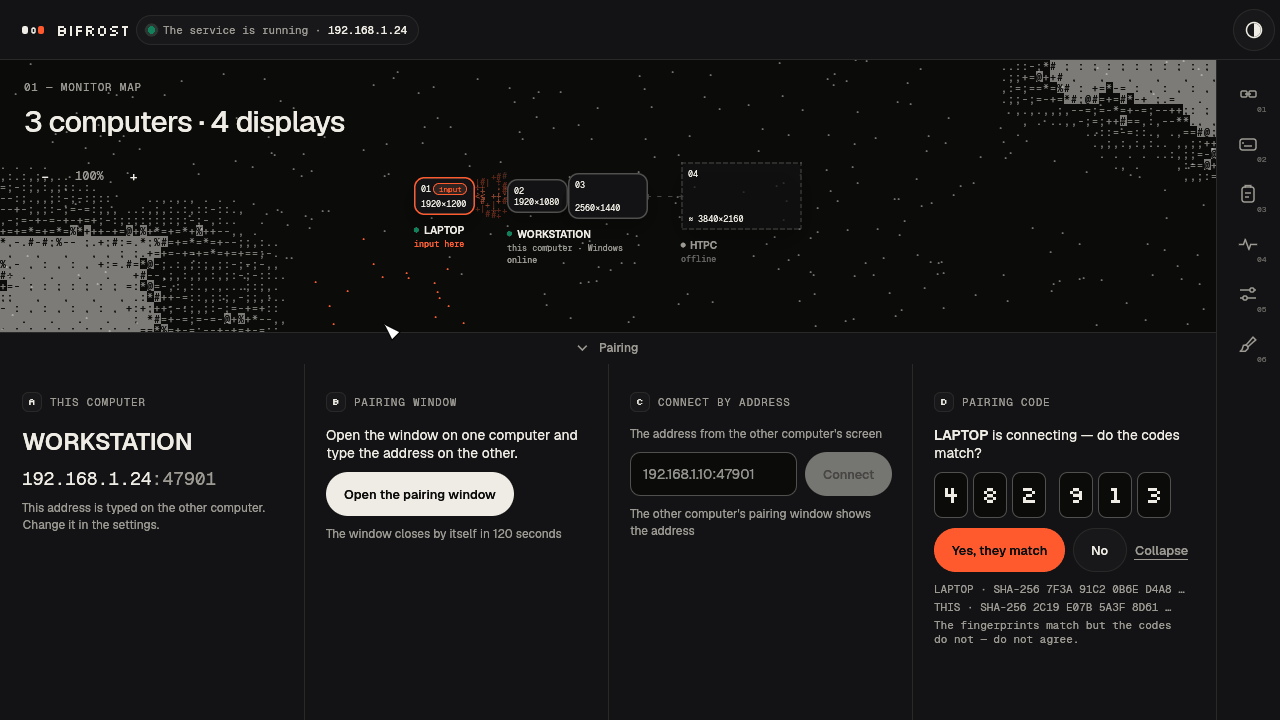
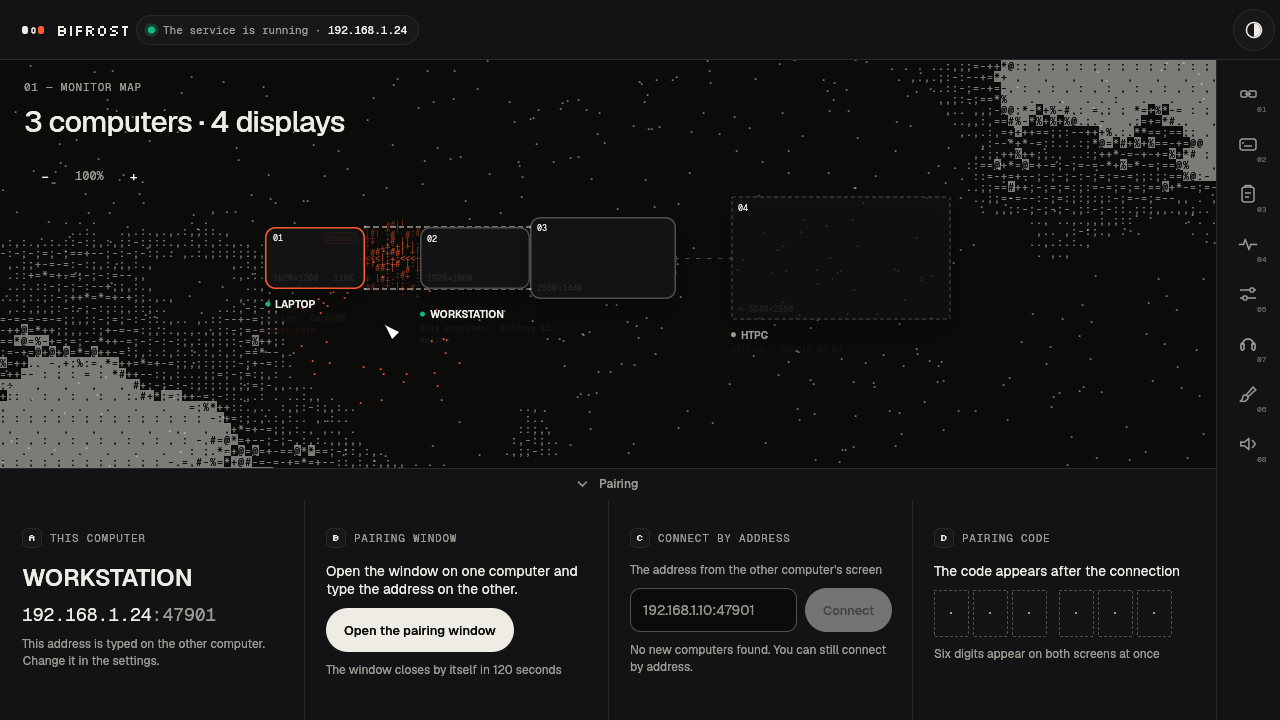
docs(readme): publish Bifrost 0.5 product page and screenshots

diff --git a/README.md b/README.md
@@ -1,46 +1,138 @@
 # Bifrost
 
-**A rainbow bridge between your computers.**
+**One keyboard and mouse for your Windows and Linux computers, a shared clipboard, and optional system audio in one headset.**
 
-Bifrost is a software KVM: share one keyboard, mouse and text clipboard—and, optionally, system audio—across Windows and Linux computers on your LAN. Control connections use mutual TLS, and you pair computers by comparing a six-digit code on both screens. This is my personal project and an early release—not a polished replacement for every hardware KVM.
+Keep your computers separate. Move between their screens over your LAN without changing the keyboard under your hands.
 
-![Bifrost in dark mode](assets/readme/main-dark.png)
-![Bifrost in light mode](assets/readme/main-light.png)
+**[Download Bifrost 0.5.0](https://github.com/ynnmuraii/bifrost/releases/latest)** · [Get started](#get-started) · [Platform support](#platform-support) · [Русская инструкция](packaging/README_RU.txt)
 
-*Screenshots rendered from the actual UI with example computers; no personal network data.*
+<picture>
+  <source media="(prefers-color-scheme: dark)" srcset="assets/readme/main-dark.png">
+  <source media="(prefers-color-scheme: light)" srcset="assets/readme/main-light.png">
+  <img alt="Bifrost monitor map with example WORKSTATION, LAPTOP and HTPC computers and linked display edges" src="assets/readme/main-light.png">
+</picture>
 
-## What it does
+*The actual Bifrost 0.5.0 interface, rendered offscreen with example computers. The map illustrates a setup, not a live network.*
 
-- Mutual TLS, pairing requests accepted before six-digit confirmation on both computers, and synchronized unpairing.
-- LAN discovery with dotted, gently animated cards for unpaired computers (**Connect / Hide**), plus rediscovery of trusted computers after address changes; manual addresses remain available.
-- Live RTT p95 and jitter on the status screen, with latency pills on the monitor map.
-- A freely arranged monitor map, edge links across gaps and an animated ASCII bridge.
-- Edge glow to show where input is going.
-- Shared **text** clipboard with history, follow-cursor/broadcast policies and **Send to…**; separately opt-in **PNG images on Windows, X11 and KDE Wayland (data-control)** (images are never kept in history; no files).
-- Optional **shared audio**: one headset on a Listener, with system sound from authorized Sources; mix all sources or follow input focus.
-- A popup audio mini-player with now-playing information, local per-source volume/mute and separately permitted media buttons; optional system-wide mute/PTT control of the Listener's physical microphone.
-- Game mode guards against accidental edge switches in fullscreen apps; manual mode is available on Wayland.
-- Configurable switching hotkeys and an emergency release shortcut.
-- Russian and English, light and dark themes.
-- System tray and a per-user **Start at login** toggle in Settings.
-- One executable for the window, core, input agent and optional isolated audio worker—no separate service to install.
-- Version badges on the map and coordinated updates of trusted computers, with the requesting computer updated last.
+## Make room on your desk
 
-The input lease defaults to `timing.lease_ttl_ms = 1000` (allowed range 300–1000 ms). Challenges run every `min(TTL/5, 100 ms)`, or 100 ms by default. This fixed budget accommodates a 500 ms TCP stall when renewals resume in time; it cannot guarantee survival through unlimited loss. There is no grace period or adaptive extension: core and agent deadlines stay anchored to challenge issuance plus TTL. The control-return bound is TTL + 100 ms scheduling allowance (1100 ms by default); repeat guard (150 ms) and agent core-silence timeout (300 ms) are unchanged.
+- **Desktop and laptop, one set of controls.** Arrange their displays on the map, link the edges, and move across with your mouse. Use a switching hotkey when you prefer.
+- **Copy here, paste there.** Opt into text clipboard sharing that follows the computer you use, or send a history item to a chosen trusted computer. PNG images have a separate opt-in on supported desktops; files are not transferred.
+- **Keep the headset plugged in.** Opt into system audio from up to three authorized computers on one Listener. Mix them together or let input focus decide which is louder.
 
-### Input reliability in 0.4.0
+Bifrost is a personal project and an early release, not a replacement for every hardware KVM. Windows 11 and Linux X11 are supported; Wayland depends on your desktop and its portals. There is no macOS support or microphone streaming.
 
-The newest absolute pointer position is kept outside the bounded input queue, rather than dropping it when that queue is full. A button, key or wheel event freezes the preceding position first; discrete events and lease boundaries keep their order. Pending motion is cleared at lease end and cannot carry into another lease.
+The app has English and Russian interfaces, light and dark themes, a system tray and optional start at login. One executable includes the window, core, input agent and isolated audio worker; no separate service to install.
 
-Reading and coordination run independently of the single TLS writer. Lease/control messages and Pong have bounded frame-level priority. A **pending frame**, not an idle healthy connection, closes the link after 600 ms without write progress or 1000 ms total; a partially written frame is never reused. Shutdown shares a 100 ms budget. These limits do not extend the lease or change its control-return bound.
+## Get started
 
-The receiving core admits at most 64 native input batches and keeps at most 64 more in a local FIFO, advancing on exact local completions matched by lease and sequence. It no longer evicts an outstanding offer and mistakes a successful burst for a partial injection. Lease/deadline controls remain independent of this input backlog; input does not wait for network `InjectAck` credit.
+1. [Install Bifrost](#download--install) on both computers and open it on the same trusted LAN.
+2. Select a discovered computer and choose **Connect**. **Accept** the request on the other screen, then compare the six-digit codes and confirm on **both** computers only if they match.
+3. Arrange the screens on the map and connect their edges. Take control from the computer whose keyboard you want to use, then move across a linked edge.
+4. Test **Emergency release** before relying on remote input. Enable clipboard sharing if you want it; system audio remains off until you set it up separately.
 
-Bounded diagnostics report p50/p95/p99, durations and counters for capture-receipt age, queue waiting, TLS writes, inbound dispatch, local injection and send-to-`InjectAck` round trips—never input coordinates, keys or content. The source's monotonic capture-receipt timestamp is not a hardware HID timestamp; no clocks are synchronized across computers. The RTT shown in the UI remains Ping RTT, not input latency.
+<details>
+<summary>How pairing works</summary>
 
-Input still shares one reliable TLS/TCP stream: packet loss can cause retransmission and head-of-line stalls. The controlled [two-core Docker benchmark](apps/bifrost/tests/bench_b/README.md) checks delivery, ordering and release safety; its variable loss tails are **not a claim of reduced Wi-Fi p99**.
+```mermaid
+flowchart TD
+    A["Open Bifrost on both computers"] --> B["Connect, then accept the request"]
+    B --> C{"Six-digit codes match?"}
+    C -->|"No"| D["Cancel pairing"]
+    C -->|"Yes: confirm on both"| E["Arrange screens and link edges"]
+    E --> F["Take control and cross a linked edge"]
+    F --> G["Control the other computer"]
+    G --> H["Return here or use Emergency release"]
+```
 
-**Game mode** (Settings) blocks only edge switching: `auto` detects fullscreen apps on Windows/X11 and cursor confinement on Windows; `always` requires an explicit switch, and `off` disables the guard. Per-app allow/block lists match executable basenames or X11 WM_CLASS, case-insensitively; allow takes precedence in auto. **Ctrl+Alt+Shift+G** toggles auto/always (configurable under hotkeys), and the tray offers the same toggle. Explicit switches and emergency release always work, including while input is already remote. Wayland cannot expose foreground apps: use manual mode there. `[game_guard]` defaults to `mode = "auto"`, `block_apps = []`, `allow_apps = []`.
+</details>
+
+If discovery is empty, enter the address manually; this cannot bypass firewall or network isolation. Keep a local keyboard available, especially while setting up Wayland permissions.
+
+## Download & install
+
+**[Get the 0.5.0 release](https://github.com/ynnmuraii/bifrost/releases/latest)** for both computers. Choose the same version on each.
+
+- **Windows 11 · x86_64:** download `bifrost-0.5.0-windows-x86_64.exe`, keep it in a permanent folder, and run it. No administrator account or installer is needed. The executable is not Authenticode-signed; check the download before bypassing SmartScreen.
+- **Linux · x86_64:** extract `bifrost-0.5.0-linux-x86_64.tar.gz`, run `./install.sh` without `sudo`, then open Bifrost from the applications menu. The release requires glibc 2.35 or newer.
+
+On a firewall prompt, allow **private networks only**. Bifrost does not add firewall rules. [Installation, firewall and upgrade details](#technical-details) include ports, signed-checksum verification and older-version migration.
+
+## Shared audio
+
+Use the headset already connected to your **Listener** to hear your other computers. On the Listener, enable receiving; on each **Source**, select that trusted Listener and enable sharing. Pairing alone never grants audio permission.
+
+![Bifrost Audio settings with a trusted laptop selected as the destination and system audio sharing still off](assets/readme/audio-settings-dark.png)
+
+<details>
+<summary>See the audio mini-player</summary>
+
+<img alt="Bifrost audio mini-player with now-playing information, timeline and volume controls" src="assets/readme/audio-player-dark.png" width="360">
+
+</details>
+
+*Audio views rendered from the actual 0.5.0 interface with example computers, invented media metadata and synthetic cover art; no live audio session.*
+
+```mermaid
+flowchart TD
+    S["Up to 3 Sources<br/>Windows / Linux"]
+    S -->|"Both sides consent<br/>Encrypted LAN audio"| L["Listener<br/>Mix All / Follow Focus"]
+    L --> H["One headset"]
+```
+
+Audio is off by default. Media buttons and physical microphone mute/PTT each need separate permission; **microphone audio is never streamed**. Device buffers, Wi-Fi and Bluetooth can add delay. Use headphones: there is no acoustic echo cancellation.
+
+## Trust comes first
+
+Pair by comparing the six-digit code on **both screens**. Control connections use pinned mutual TLS; a discovery card is not proof of identity or permission to connect.
+
+Clipboard and audio sharing are opt-in. Text clipboard items are capped at 1 MiB; PNG images need a second opt-in, default to a 16 MiB limit (up to 32 MiB), and never enter history. Pairing does not grant audio, media-control or microphone-control permission.
+
+Use a trusted LAN. Discovery announces computer names and connection metadata to that LAN without encryption; it never advertises pairing codes, keystrokes or clipboard content. You can disable discovery or use manual addresses.
+
+Closing the window does not stop the core or an active session. Use the app's explicit controls to return input or stop sharing.
+
+## Platform support
+
+| Platform | Input sharing | Shared audio |
+| --- | --- | --- |
+| Windows 11 | Capture and receive input | WASAPI system audio; process-tree exclusion and native media/mic/PTT controls where available |
+| Linux X11 | Capture and receive input | Pulse-compatible monitor audio/MPRIS; focused GUI PTT, not native global X11 PTT |
+| KDE Plasma ≥6.1 · Wayland | Through desktop portals; permissions required | Pulse-compatible audio/MPRIS; current zero portal timestamps cannot prove native PTT freshness; GUI hold-to-talk remains available |
+| GNOME ≥45 · Wayland | Portal capabilities vary; GNOME 46 can receive but cannot capture input for another computer | Pulse-compatible audio/MPRIS; native PTT requires a present portal with verifiable fresh timestamps, not GNOME 46 |
+| wlroots-based Wayland desktops | Not supported | Not a supported Bifrost desktop |
+| macOS | Not supported | Not supported |
+
+
+## Before you rely on it
+
+- Keep a local keyboard available and test Emergency release. On Wayland, check the shortcut status in **Keys**: a running app does not mean the portal supports that shortcut.
+- GNOME Wayland cannot share PNG clipboard images; GNOME 46 can receive input but cannot capture it for another computer. wlroots desktops and macOS are unsupported.
+- This is not a hard-realtime audio link. Linux monitor capture cannot exclude individual apps; microphone mute affects every app using that physical microphone.
+
+## Technical details
+
+<details>
+<summary>Platform limitations and emergency-key precautions</summary>
+
+## Known limitations
+
+- Early software: keep access to a local keyboard and test emergency release before relying on remote input.
+- The Windows executable has no Authenticode signature and may trigger SmartScreen; release checksums have a separate Ed25519 signature. Linux desktops may need explicit portal approval.
+- Wayland shows a desktop-portal permission dialog on first use. Support depends on your compositor and portal backend.
+- The emergency hotkey on Wayland depends on the **GlobalShortcuts portal**. On KDE, launch Bifrost from its desktop entry or an `app-bifrost@….service` unit so the portal can identify it. GNOME 46 has no GlobalShortcuts portal. Check the emergency-hotkey status in **Keys**; do not assume the shortcut works just because the app is running.
+- Clipboard sharing is off by default; PNG images require a second opt-in. Windows, X11 and KDE Wayland (data-control) support images; GNOME Wayland does not.
+- Shared audio is off by default and requires explicit permissions on both computers; pairing does not grant audio consent. A Source selects one Listener.
+- Linux monitor capture cannot exclude individual applications. Native portal PTT fails closed on unverifiable clocks or conservative event age over 250 ms, including delayed first events; use GUI hold-to-talk. Microphone streaming, virtual-microphone routing and dependent target UX are deferred; native global X11 PTT is unsupported.
+- Endpoint mute affects every app using that microphone. Linux mute restoration has best-effort ownership, not an atomic guarantee against other mute writers; native portal PTT additionally requires the verifiable clocks described above.
+- Audio includes driver/device buffering and is not a hard-realtime or studio-monitoring link. Wi-Fi and Bluetooth can add delay; there is no AEC, so headphones are recommended.
+
+</details>
+
+<details>
+<summary>Installation, firewall, upgrades, pairing and clipboard</summary>
+
+### Installation & upgrades
 
 ## Download & install
 
@@ -77,13 +169,16 @@ No `sudo`: this installs `~/.local/bin/bifrost`, an application-menu entry and i
 
 Runtime: X11 works too; Wayland input sharing needs `xdg-desktop-portal` with RemoteDesktop/InputCapture and a compatible backend (KDE Plasma ≥6.1 or GNOME ≥45). The GitHub Linux build targets **glibc 2.35 or newer** (Ubuntu 22.04 baseline); older distributions should build from source. Allow **TCP 47901/47902 + UDP 47902 (discovery)** on your LAN firewall. UDP 47902 is separate from TCP 47902 clipboard; discovery does not require enabling clipboard. Shared audio usually needs no extra UDP rule on stateful LAN firewalls after the pinned TCP link; TCP 47901 must be reachable in at least one direction. If path validation fails, allow **UDP 47903 from the Source's LAN address on the Listener** (or `audio.media_port`). Bifrost adds no firewall rules; AP/client isolation and VPN policy still apply.
 
-## Quick start
+## Pairing & clipboard
 
 1. Run Bifrost on both computers, on the same trusted LAN. On a fresh setup, the window starts its core and creates the settings automatically.
 2. Select a discovered computer and click **Connect**, then **Accept** its pairing request on the other screen. Incoming requests can be disabled in **Settings → Accept pairing requests** (`[pairing] accept_requests = false`). With older versions or a manual address, first open the pairing window on the other computer, then connect as before.
 3. Compare the six-digit codes and confirm on **both** computers. Only confirm if the codes match.
    A request grants no trust. Accept opens a temporary window restricted to the requesting certificate; declining mutes that identity for ten minutes.
 4. Arrange the screens on the map and connect their edges. Right-click a display-edge pair to allow or forbid crossing it (forbidden edges are dashed); a very short shared span is left off automatically and can be enabled the same way. Take control on the computer whose keyboard you want to use, then move across a linked edge. Enable the shared clipboard if you want it, and test your emergency shortcut first.
+
+<details>
+<summary>Pairing, clipboard destinations, image limits and discovery privacy</summary>
 
 Pairing requests and synchronized unpairing require **0.3.1 on both computers**. Unpairing removes trust on the other computer immediately if online, or on its next connection within 30 days. Older versions keep manual pairing windows and may show a manual **Remove** suggestion instead of synchronized removal.
 
@@ -103,7 +198,12 @@ For routed input, capable peers acknowledge application before the first press i
 
 Discovery uses private IPv4 UDP multicast, not mDNS/Avahi/Bonjour. It is limited to selected LAN adapters; VPN adapters are used only when explicitly selected. Wi-Fi multicast filtering, guest/client isolation or separate VLANs may hide computers. **Enter the address manually** if the list is empty; TCP connectivity is still required, so manual entry cannot bypass network isolation.
 
-## Shared audio
+</details>
+
+</details>
+
+<details>
+<summary>Audio setup, player controls, permissions, local silence and compatibility</summary>
 
 One headset on a single **Listener**, system sound from up to three authorized **Sources**. **Mix All** plays them together; **Follow Focus** makes the focused computer primary and quietens the others. Audio is off by default.
 The independent, always-on-top mini-player shows now-playing information where the Source's player supports it, plus local per-source volume/mute. It opens automatically after an observed running stream; an empty player has no playback controls. Each Source separately permits its Listener's media commands; sharing system audio does not enable them.
@@ -151,28 +251,30 @@ Normal stop restores the previous output mute state **best-effort**: an already-
 - **No microphone streaming or virtual microphone yet:** a Listener's headset mic does not appear on a Source; dependent microphone-target routing/UX is also deferred.
 - **No macOS or AEC:** headphones are recommended to avoid acoustic feedback. See the [commented configuration example](crates/config/examples-data/config.example.toml) for defaults and downgrade precautions.
 
-## Platform support
+</details>
+<details>
+<summary>Input reliability, diagnostics and game mode</summary>
 
-| Platform | Input sharing | Shared audio |
-| --- | --- | --- |
-| Windows 11 | Capture and receive input | WASAPI system audio; process-tree exclusion and native media/mic/PTT controls where available |
-| Linux X11 | Capture and receive input | Pulse-compatible monitor audio/MPRIS; focused GUI PTT, not native global X11 PTT |
-| KDE Plasma ≥6.1 · Wayland | Through desktop portals; permissions required | Pulse-compatible audio/MPRIS; current zero portal timestamps cannot prove native PTT freshness; GUI hold-to-talk remains available |
-| GNOME ≥45 · Wayland | Portal capabilities vary; GNOME 46 can receive but cannot capture input for another computer | Pulse-compatible audio/MPRIS; native PTT requires a present portal with verifiable fresh timestamps, not GNOME 46 |
-| wlroots-based Wayland desktops | Not supported | Not a supported Bifrost desktop |
-| macOS | Not supported | Not supported |
+The input lease defaults to `timing.lease_ttl_ms = 1000` (allowed range 300–1000 ms). Challenges run every `min(TTL/5, 100 ms)`, or 100 ms by default. This fixed budget accommodates a 500 ms TCP stall when renewals resume in time; it cannot guarantee survival through unlimited loss. There is no grace period or adaptive extension: core and agent deadlines stay anchored to challenge issuance plus TTL. The control-return bound is TTL + 100 ms scheduling allowance (1100 ms by default); repeat guard (150 ms) and agent core-silence timeout (300 ms) are unchanged.
 
-## Known limitations
+### Input reliability in 0.4.0
 
-- Early software: keep access to a local keyboard and test emergency release before relying on remote input.
-- The Windows executable has no Authenticode signature and may trigger SmartScreen; release checksums have a separate Ed25519 signature. Linux desktops may need explicit portal approval.
-- Wayland shows a desktop-portal permission dialog on first use. Support depends on your compositor and portal backend.
-- The emergency hotkey on Wayland depends on the **GlobalShortcuts portal**. On KDE, launch Bifrost from its desktop entry or an `app-bifrost@….service` unit so the portal can identify it. GNOME 46 has no GlobalShortcuts portal. Check the emergency-hotkey status in **Keys**; do not assume the shortcut works just because the app is running.
-- Clipboard sharing is off by default; PNG images require a second opt-in. Windows, X11 and KDE Wayland (data-control) support images; GNOME Wayland does not.
-- Shared audio is off by default and requires explicit permissions on both computers; pairing does not grant audio consent. A Source selects one Listener.
-- Linux monitor capture cannot exclude individual applications. Native portal PTT fails closed on unverifiable clocks or conservative event age over 250 ms, including delayed first events; use GUI hold-to-talk. Microphone streaming, virtual-microphone routing and dependent target UX are deferred; native global X11 PTT is unsupported.
-- Endpoint mute affects every app using that microphone. Linux mute restoration has best-effort ownership, not an atomic guarantee against other mute writers; native portal PTT additionally requires the verifiable clocks described above.
-- Audio includes driver/device buffering and is not a hard-realtime or studio-monitoring link. Wi-Fi and Bluetooth can add delay; there is no AEC, so headphones are recommended.
+The newest absolute pointer position is kept outside the bounded input queue, rather than dropping it when that queue is full. A button, key or wheel event freezes the preceding position first; discrete events and lease boundaries keep their order. Pending motion is cleared at lease end and cannot carry into another lease.
+
+Reading and coordination run independently of the single TLS writer. Lease/control messages and Pong have bounded frame-level priority. A **pending frame**, not an idle healthy connection, closes the link after 600 ms without write progress or 1000 ms total; a partially written frame is never reused. Shutdown shares a 100 ms budget. These limits do not extend the lease or change its control-return bound.
+
+The receiving core admits at most 64 native input batches and keeps at most 64 more in a local FIFO, advancing on exact local completions matched by lease and sequence. It no longer evicts an outstanding offer and mistakes a successful burst for a partial injection. Lease/deadline controls remain independent of this input backlog; input does not wait for network `InjectAck` credit.
+
+Bounded diagnostics report p50/p95/p99, durations and counters for capture-receipt age, queue waiting, TLS writes, inbound dispatch, local injection and send-to-`InjectAck` round trips—never input coordinates, keys or content. The source's monotonic capture-receipt timestamp is not a hardware HID timestamp; no clocks are synchronized across computers. The RTT shown in the UI remains Ping RTT, not input latency.
+
+Input still shares one reliable TLS/TCP stream: packet loss can cause retransmission and head-of-line stalls. The controlled [two-core Docker benchmark](apps/bifrost/tests/bench_b/README.md) checks delivery, ordering and release safety; its variable loss tails are **not a claim of reduced Wi-Fi p99**.
+
+**Game mode** (Settings) blocks only edge switching: `auto` detects fullscreen apps on Windows/X11 and cursor confinement on Windows; `always` requires an explicit switch, and `off` disables the guard. Per-app allow/block lists match executable basenames or X11 WM_CLASS, case-insensitively; allow takes precedence in auto. **Ctrl+Alt+Shift+G** toggles auto/always (configurable under hotkeys), and the tray offers the same toggle. Explicit switches and emergency release always work, including while input is already remote. Wayland cannot expose foreground apps: use manual mode there. `[game_guard]` defaults to `mode = "auto"`, `block_apps = []`, `allow_apps = []`.
+
+</details>
+
+<details>
+<summary>Command line and building from source</summary>
 
 ## Windows command line
 
@@ -220,8 +322,8 @@ permission on that desktop. Their reported timing is not synchronized physical
 end-to-end latency. Microphone lease tests use Dry targets; registration-only
 hotkey checks do not establish physical-key or real-microphone acceptance.
 
+</details>
+
 ## License
 
 [MIT](LICENSE). Distributed third-party components are listed in [THIRD_PARTY_NOTICES.md](licenses/THIRD_PARTY_NOTICES.md).
-
-Bifrost was formerly called MultiDeskFlow; the repository URL has not changed.
